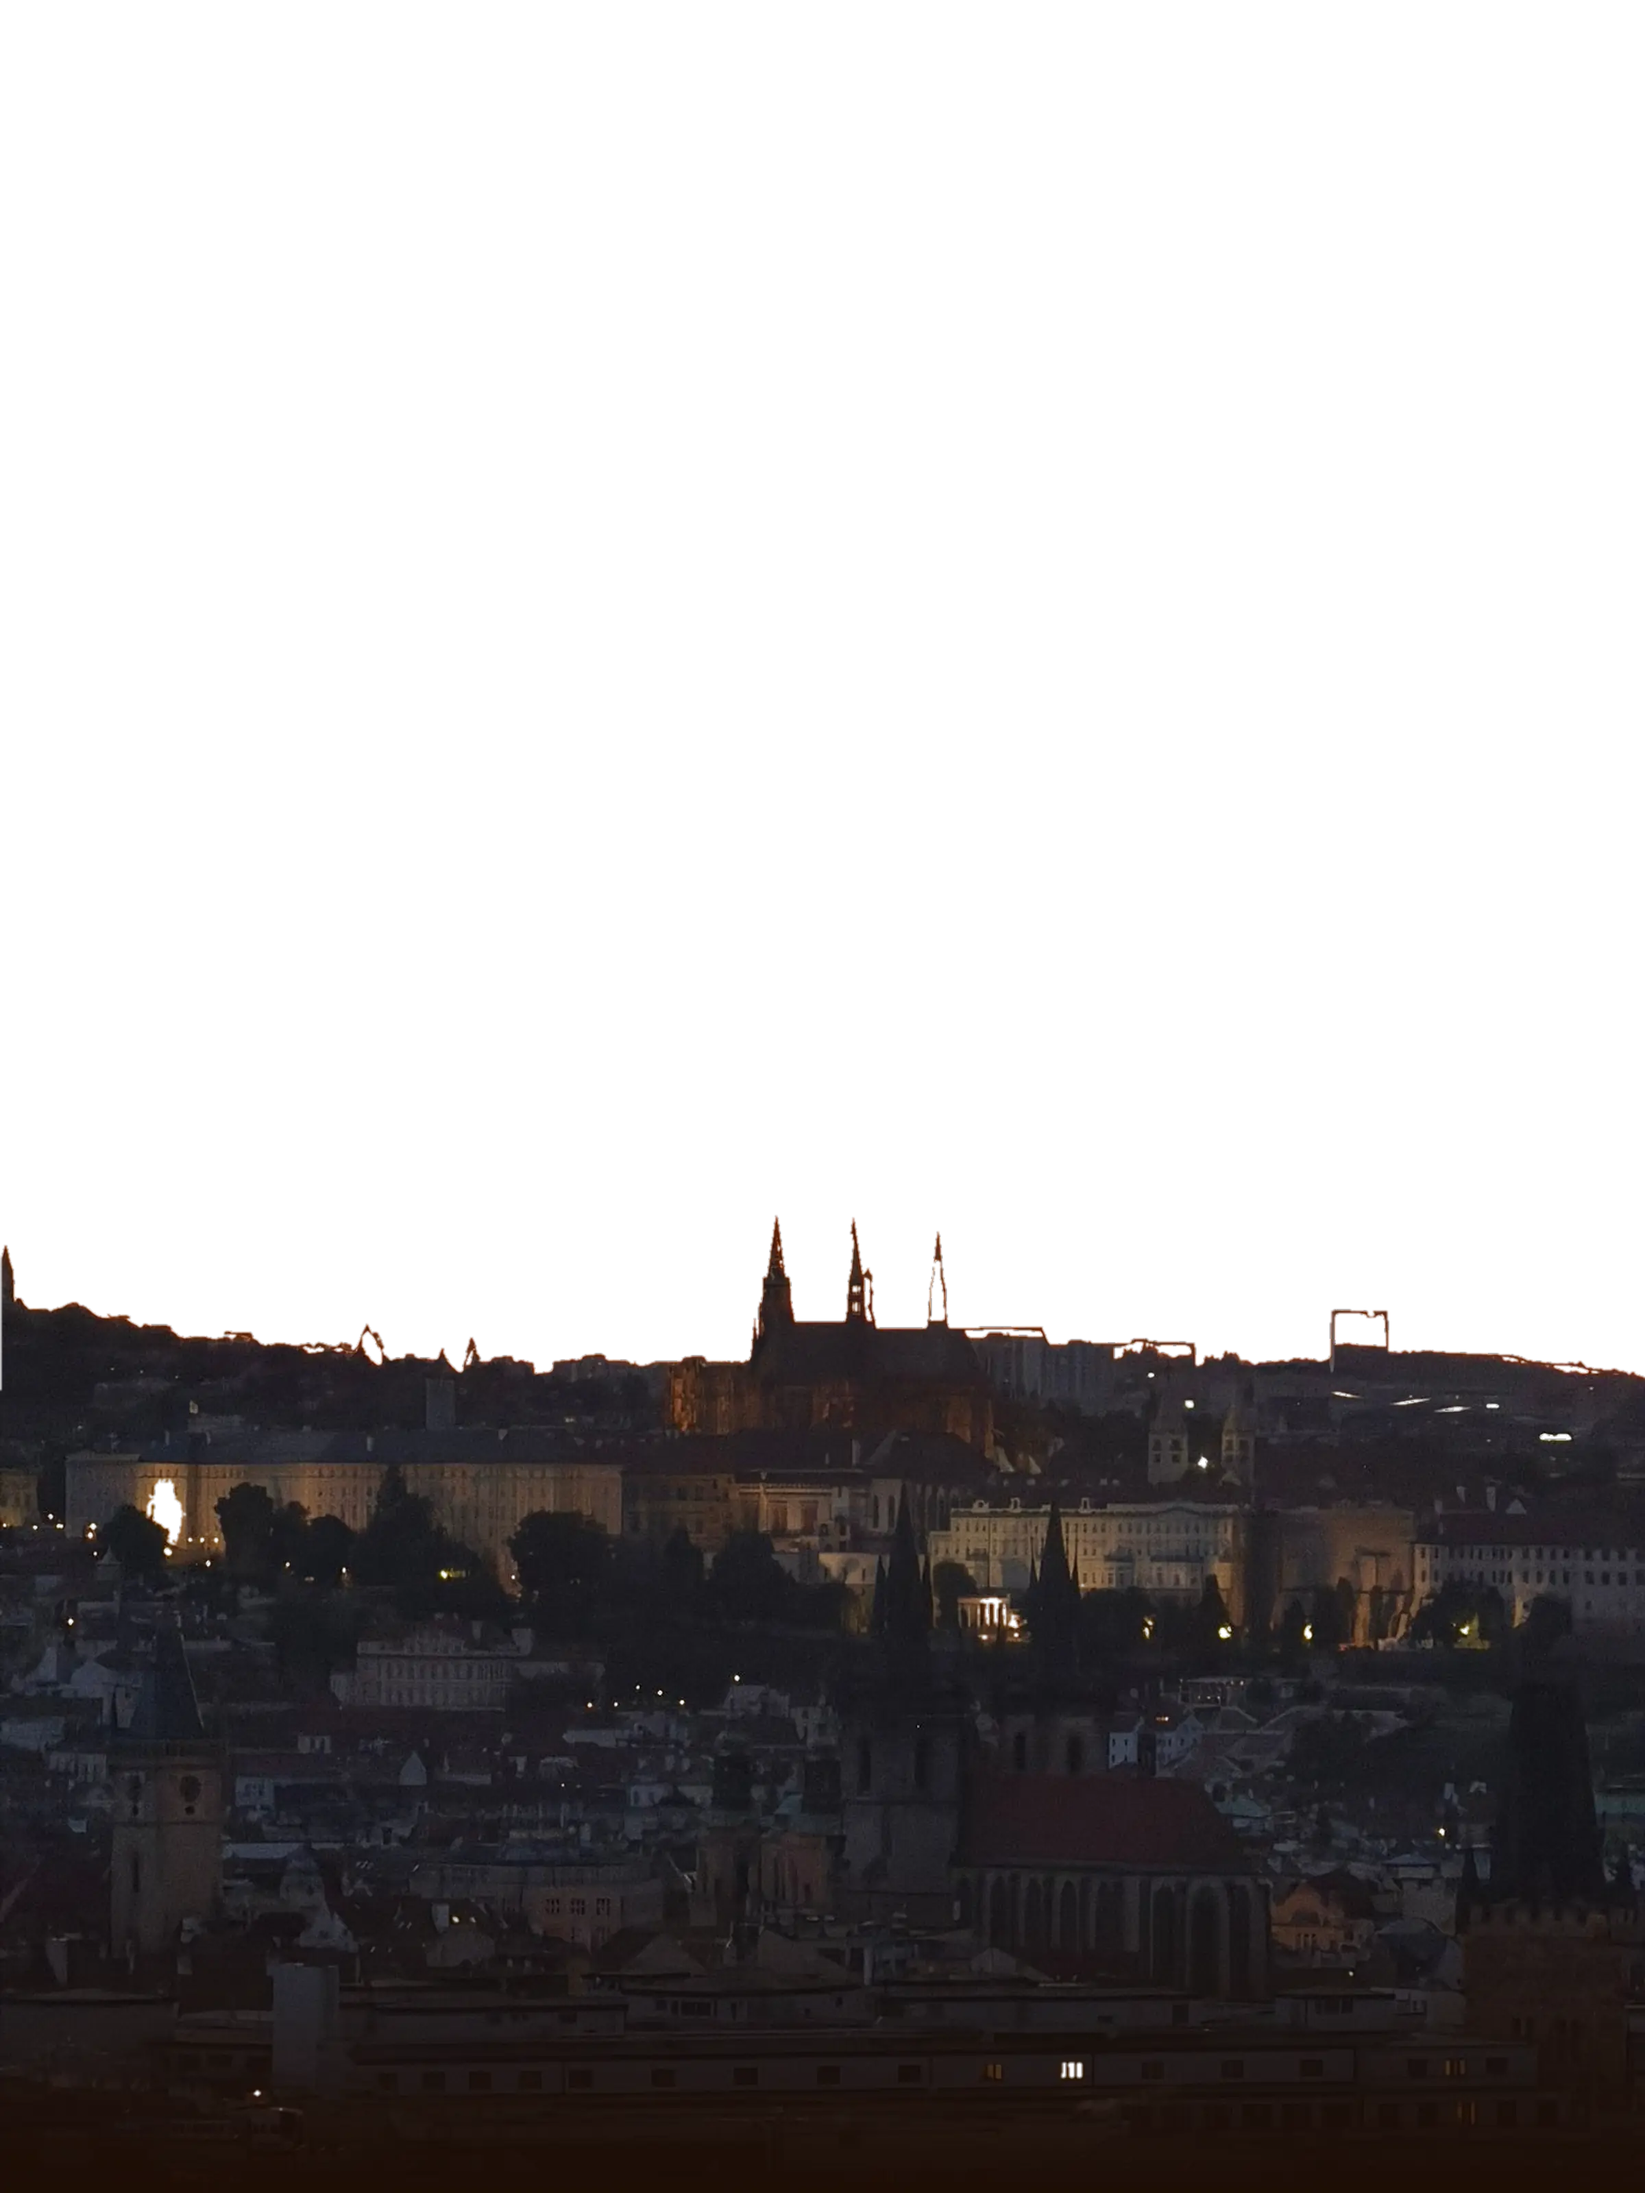
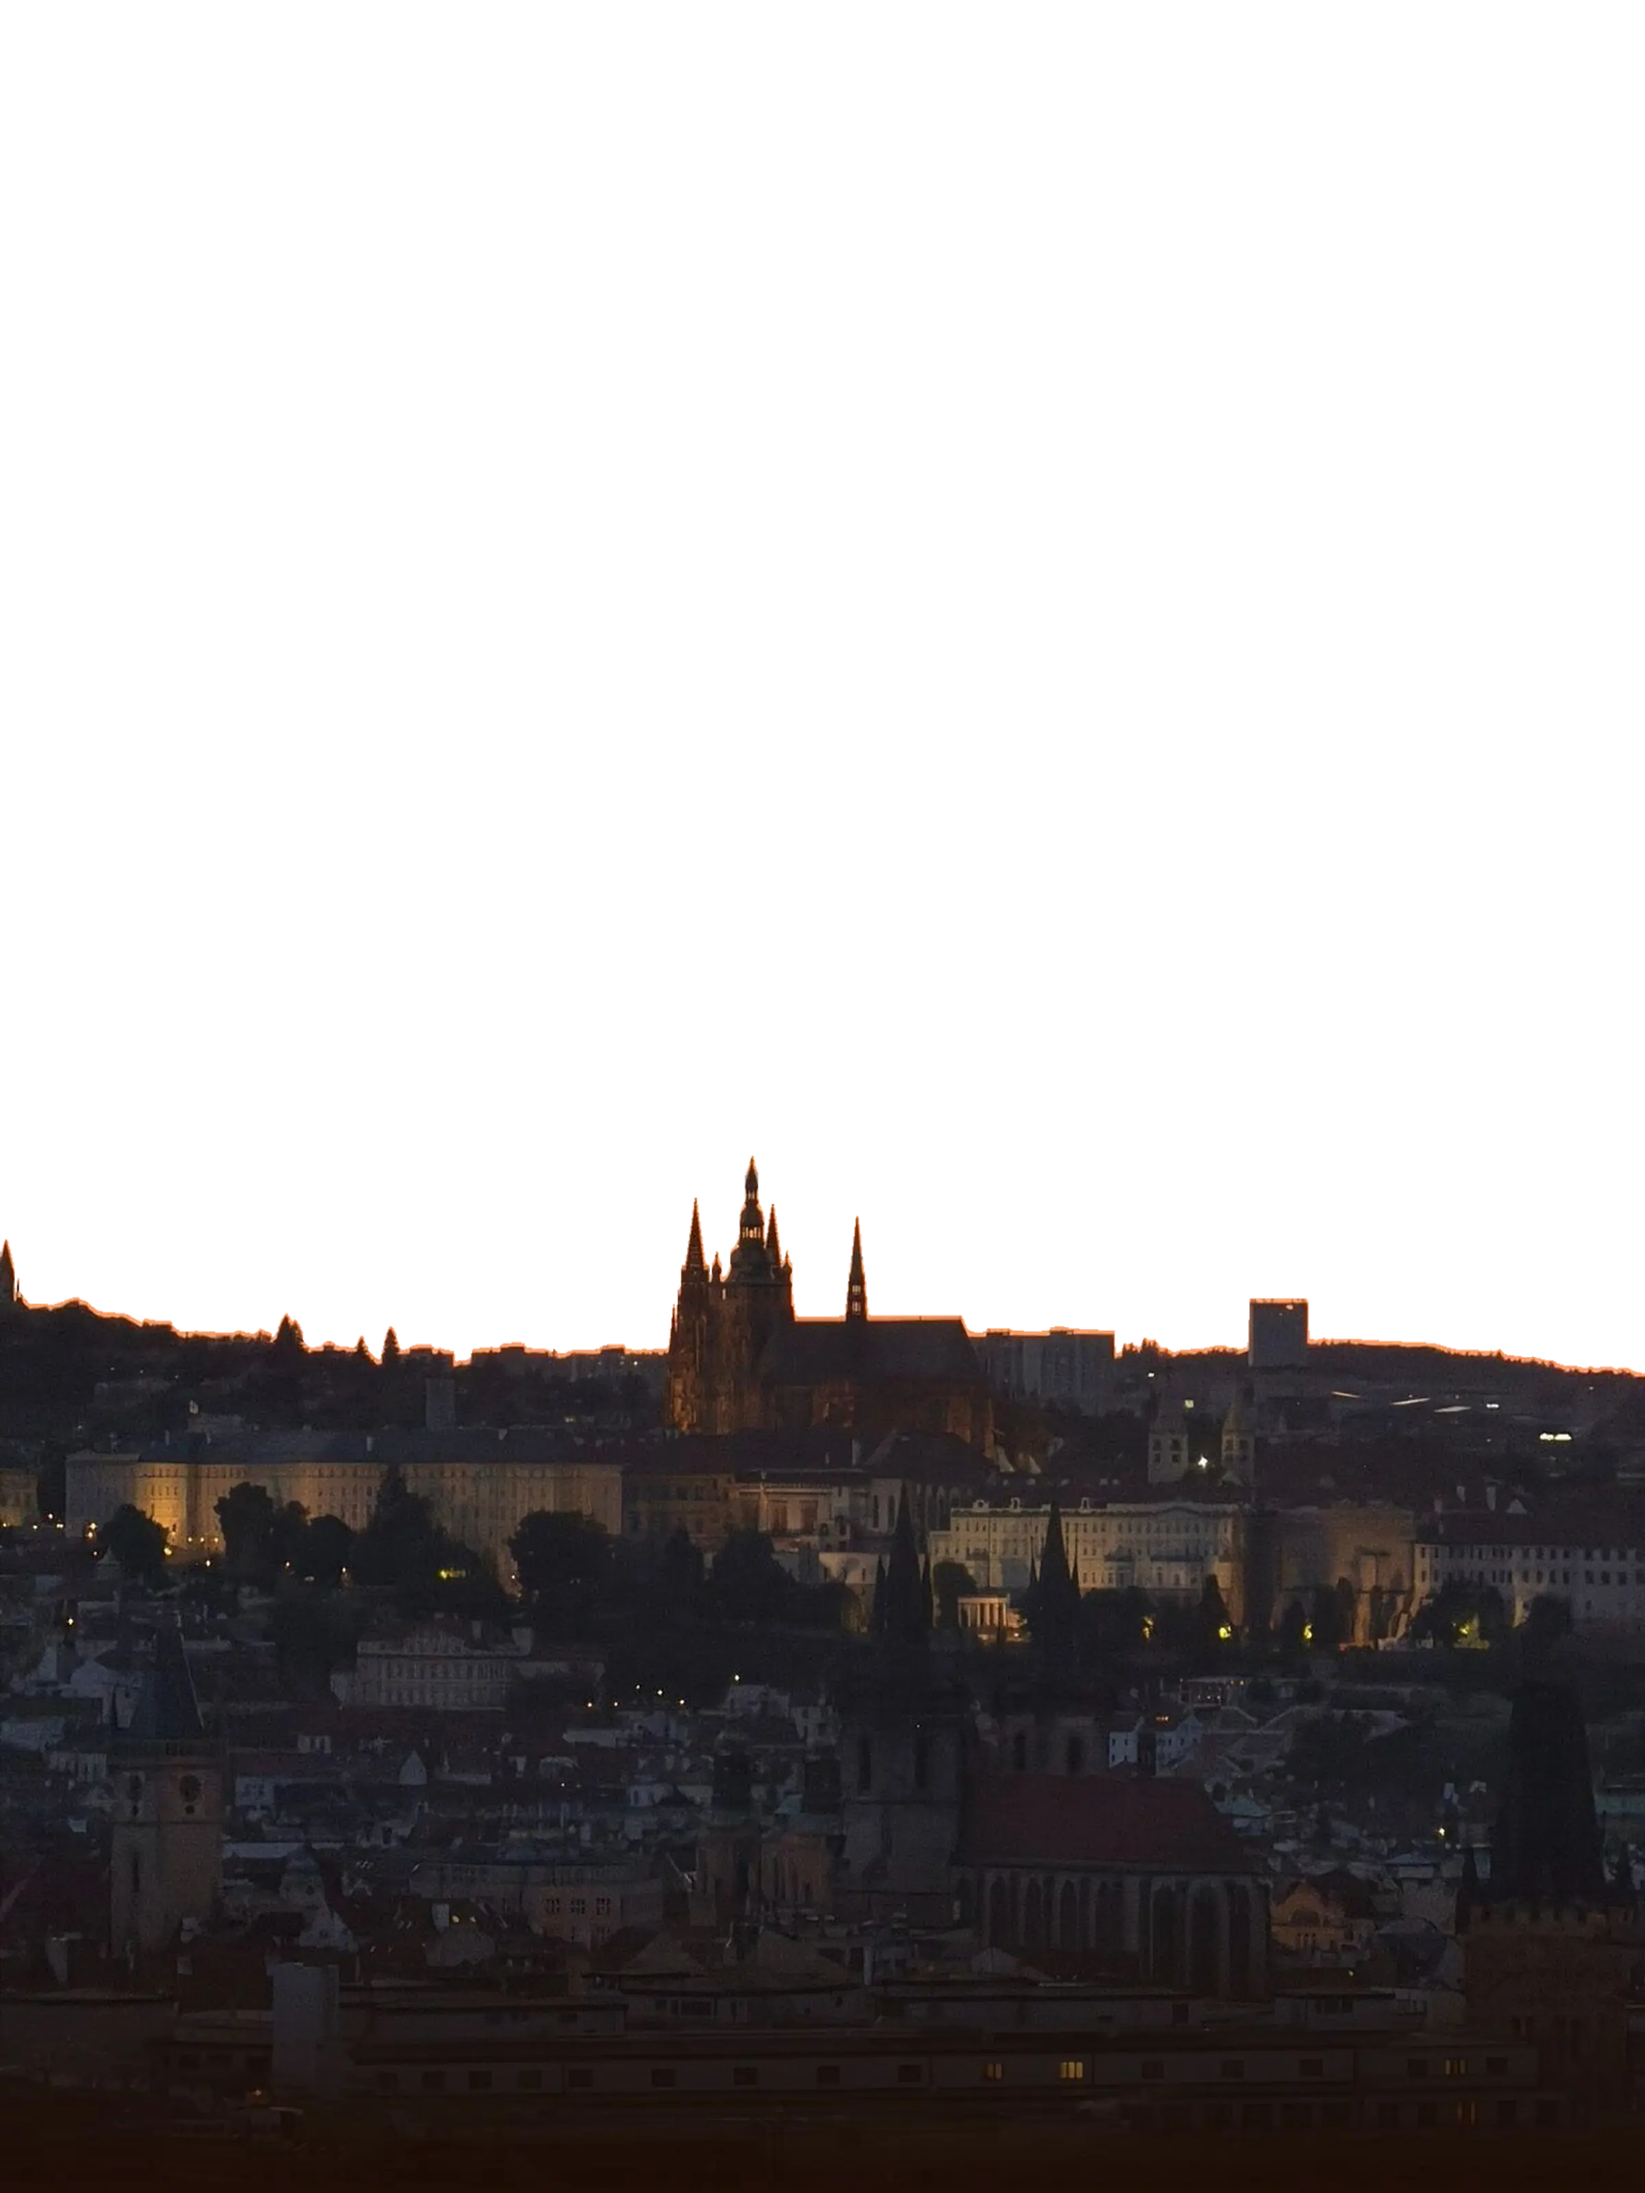
Použít split-nebe: obě alfy odvozené z jedné dělící linie
Předtím jsem sky split obešel a vzadu nechal celou fotku. Správně je použít
jeho hranu — ale ne obě masky přímo: byly řezané zvlášť a v 877 z 1536 sloupců
se nedotýkají, mezera je medián 8 px a místy až 181. Hřeben střech nepatřil
ani jedné vrstvě a prosvítalo jím pozadí jako černé fleky.

Z masky nebe se proto bere jen spodní hrana jako dělící linie a obě alfy se
odvodí z ní: nebe krycí nad linií, město od linie dolů s 3px překryvem. RGB je
v obou vrstvách čistá fotka, takže okraj masky nemůže vnést nic cizího —
odpadá i seřezávání alfy proti světlému lemu.

Vedlejší přínos: maska má kolem věží drobné otvory a tenké struktury (antény,
jeřáby) vyříznuté zvlášť. Jako funkce hranice se díry zaplní a tenké struktury
spadnou pod město, tedy do pomalu se hýbající vrstvy, kam patří — jinak by se
při scrollu odtrhávaly a plavaly nad hřebenem.

Ověřeno kompozicí na purpurovém pozadí: nula děr v klidu i při rozjezdu
o 213 px.

diff --git a/src/components/ui/parallax-hero.tsx b/src/components/ui/parallax-hero.tsx
@@ -67,10 +67,11 @@ export function ParallaxHero() {
       <section className="parallax__header">
         <div className="parallax__visuals">
           <div data-parallax-layers className="parallax__layers">
-            {/* Vrstva 1 — nebe (celá fotka) */}
+            {/* Vrstva 1 — nebe, vyříznuté podle ruční masky (alfa pod linií
+                horizontu je průhledná) */}
             <img
-              src="/parallax-assets/layer-sky.jpg"
-              srcSet="/parallax-assets/layer-sky-1200.jpg 1200w, /parallax-assets/layer-sky.jpg 1600w, /parallax-assets/layer-sky-2400.jpg 2400w"
+              src="/parallax-assets/layer-sky.webp"
+              srcSet="/parallax-assets/layer-sky-1200.webp 1200w, /parallax-assets/layer-sky.webp 1600w, /parallax-assets/layer-sky-2400.webp 2400w"
               sizes="100vw"
               loading="eager"
               fetchPriority="high"

diff --git a/index.html b/index.html
@@ -35,8 +35,8 @@
     <link
       rel="preload"
       as="image"
-      href="/parallax-assets/layer-sky.jpg"
-      imagesrcset="/parallax-assets/layer-sky-1200.jpg 1200w, /parallax-assets/layer-sky.jpg 1600w, /parallax-assets/layer-sky-2400.jpg 2400w"
+      href="/parallax-assets/layer-sky.webp"
+      imagesrcset="/parallax-assets/layer-sky-1200.webp 1200w, /parallax-assets/layer-sky.webp 1600w, /parallax-assets/layer-sky-2400.webp 2400w"
       imagesizes="100vw"
       fetchpriority="high"
     />

diff --git a/_source/photos/PUVOD.md b/_source/photos/PUVOD.md
@@ -17,14 +17,25 @@ ilustrace stylu. Až budou fotky přímo ze Sunset Dinner Party, nahradit.
 
 ## Vrstvy heru
 
-`split-mesto.png` je popředí parallaxu — město vyříznuté po horizontu, s alfou.
-`split-nebe.png` se do buildu nedostane: vzadu je celá fotka `layer-sky.jpg`,
-protože kdyby tam bylo vyříznuté nebe, musely by se obě alfy potkat pixel na
-pixel a v místech, kde se minou, prosvítá pozadí jako šmouha podél hřebene.
+Obě vrstvy parallaxu vznikají z `split-nebe.png`. Z masky se bere **jen spodní
+hrana** — ta určuje dělící linii — a obě alfy se pak odvodí z ní: nebe je krycí
+nad linií, město od linie dolů (s 3px překryvem). RGB je v obou vrstvách čistá
+fotka, takže okraj masky nemůže do obrazu vnést nic cizího.
 
-Alfa města se v `scripts/optimize-assets.mjs` ještě seřízne o pixel dovnitř —
-okraj ruční masky nese polopropustné pixely s barvou oblohy a bez seříznutí
-svítí podél celého hřebene světlá linka.
+Proč ne obě masky přímo: byly řezané zvlášť a v 877 z 1536 sloupců se
+nedotýkají — mezera je medián 8 px, místy až 181. Hřeben střech tak nepatřil
+ani jedné vrstvě a prosvítalo jím pozadí jako černé fleky. Odvození z jedné
+linie to vylučuje z principu.
+
+Vedlejší přínos: maska nebe má kolem věží drobné otvory a tenké struktury
+(antény, jeřáby) vyříznuté zvlášť. Jako funkce hranice zmizí obě starosti
+naráz — díry se zaplní a tenké struktury spadnou pod město, tedy do vrstvy,
+která se při scrollu hýbe pomalu a kam patří. Jinak by se odtrhávaly a plavaly
+nad hřebenem.
+
+`split-mesto.png` se v buildu nakonec nepoužije. Posloužil k ověření, že řez
+sedí (jeho horní hrana vychází na stejné místo jako spodní hrana nebe), ale
+geometrii určuje maska nebe.
 
 Dřív se silueta dopočítávala z fotky prahováním jasu (`scripts/skyline.mjs`).
 Ruční rozřez je přesnější, takže skript byl odstraněn — je v historii gitu.
